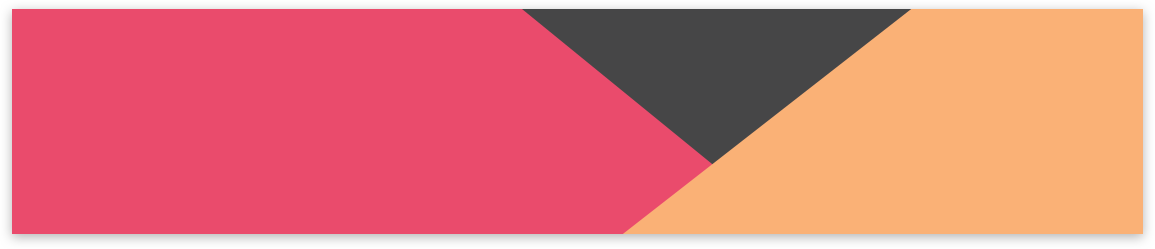
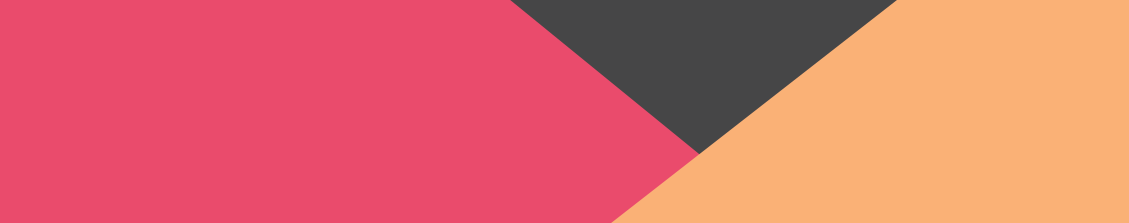
Add events background image, header

diff --git a/YesVancouverApp/src/components/Events/EventsList.js b/YesVancouverApp/src/components/Events/EventsList.js
@@ -1,0 +1,33 @@
+import React, { Component } from 'react';
+import { StyleSheet, View, Image } from 'react-native';
+import Header from '../Navigation/Header';
+
+export default class EventsList extends Component {
+    render() {
+        return (
+            <View style={styles.container}>
+                <Header style={styles.header}/>
+                <Image style={styles.backgroundImage}
+                    resizeMode='stretch'
+                    source={require('../../images/Events/Events-background.png')}
+                />
+            </View>
+        );
+    }
+}
+
+const styles = StyleSheet.create({
+    container: {
+        flex: 1
+    },
+    header: {
+        flex: 1,
+        width: null,
+        height: null
+    },
+    backgroundImage: {
+        flex: 7,
+        width: null,
+        height: null
+    }
+});

diff --git a/YesVancouverApp/src/components/Events/EventsView.js b/YesVancouverApp/src/components/Events/EventsView.js
@@ -1,6 +1,8 @@
-import React, { Component, PropTypes } from 'react';
-import { StyleSheet, Text, View, Image } from 'react-native';
+import React, { Component } from 'react';
+import { Image } from 'react-native';
 import { StackNavigator } from 'react-navigation';
+import EventsList from './EventsList'
+
 
 export default class EventsView extends Component {
     static navigationOptions = {
@@ -19,18 +21,7 @@ export default class EventsView extends Component {
 
     render() {
         return (
-            <View style={styles.container}>
-                <Text>Events View</Text>
-            </View>
+            <EventsList/>
         );
     }
 }
-
-const styles = StyleSheet.create({
-    container: {
-        flex: 1,
-        backgroundColor: '#fff',
-        alignItems: 'center',
-        justifyContent: 'center',
-    },
-});

diff --git a/YesVancouverApp/src/components/Navigation/Header.js b/YesVancouverApp/src/components/Navigation/Header.js
@@ -1,0 +1,27 @@
+import React, { Component } from 'react';
+import { StyleSheet, View, Image } from 'react-native';
+
+const Header = () => {
+    return (
+        <View style={styles.imageContainer}>
+            <Image 
+                style={styles.headerImage}
+                resizeMode='stretch'
+                source={require('../../images/Header/Top-header-bar@3x.png')}
+            />
+        </View>
+    );
+};
+
+const styles = StyleSheet.create({
+    imageContainer: {
+        flex: 1
+    },
+    headerImage: {
+        flex: 1,
+        width: null,
+        height: null
+    }
+});
+
+export default Header;
